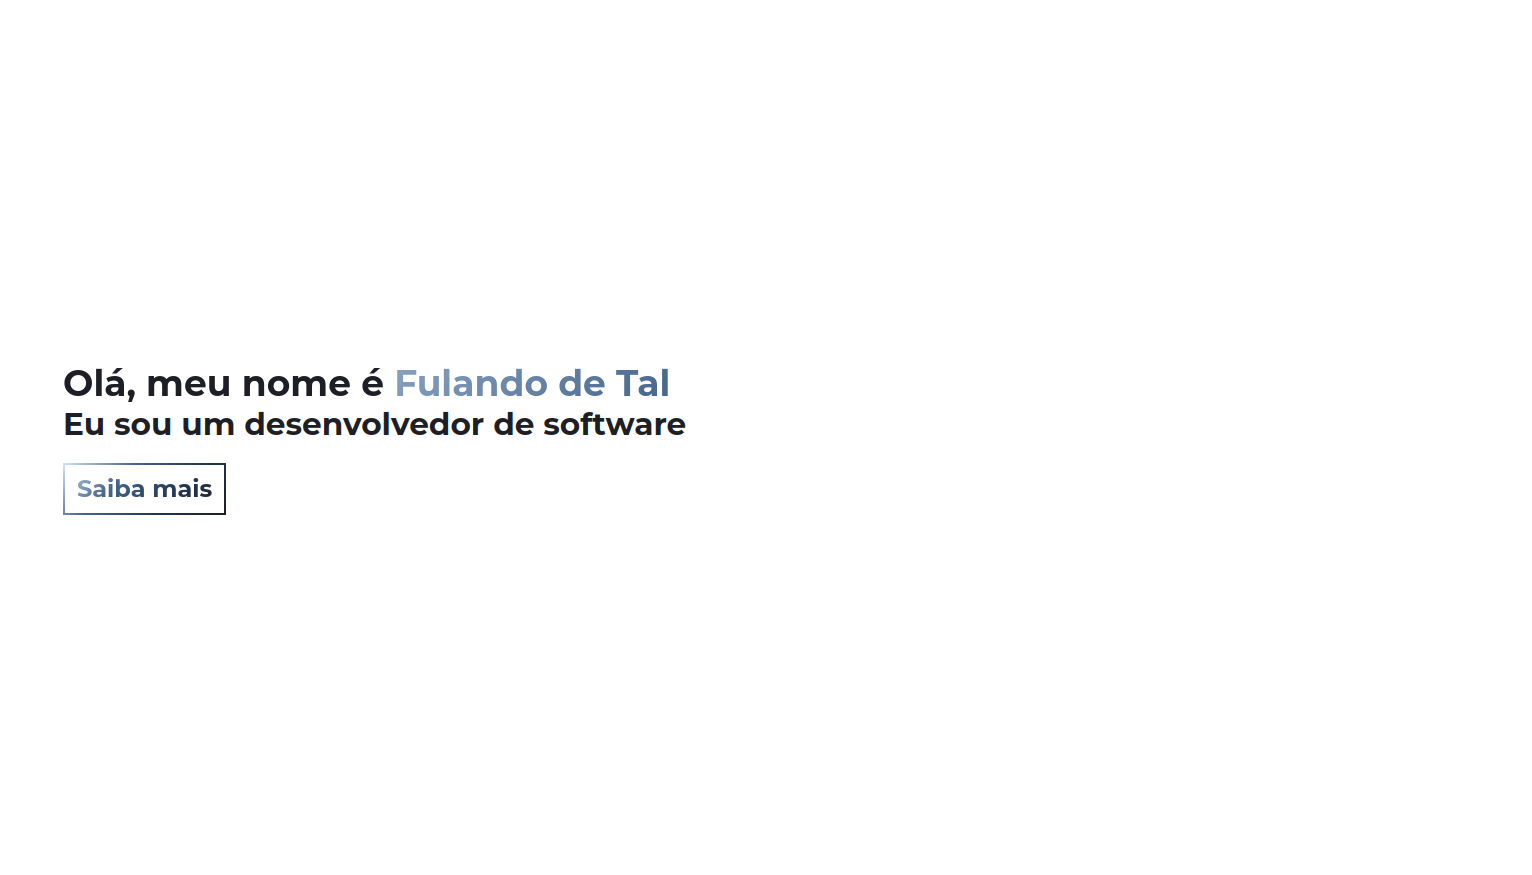
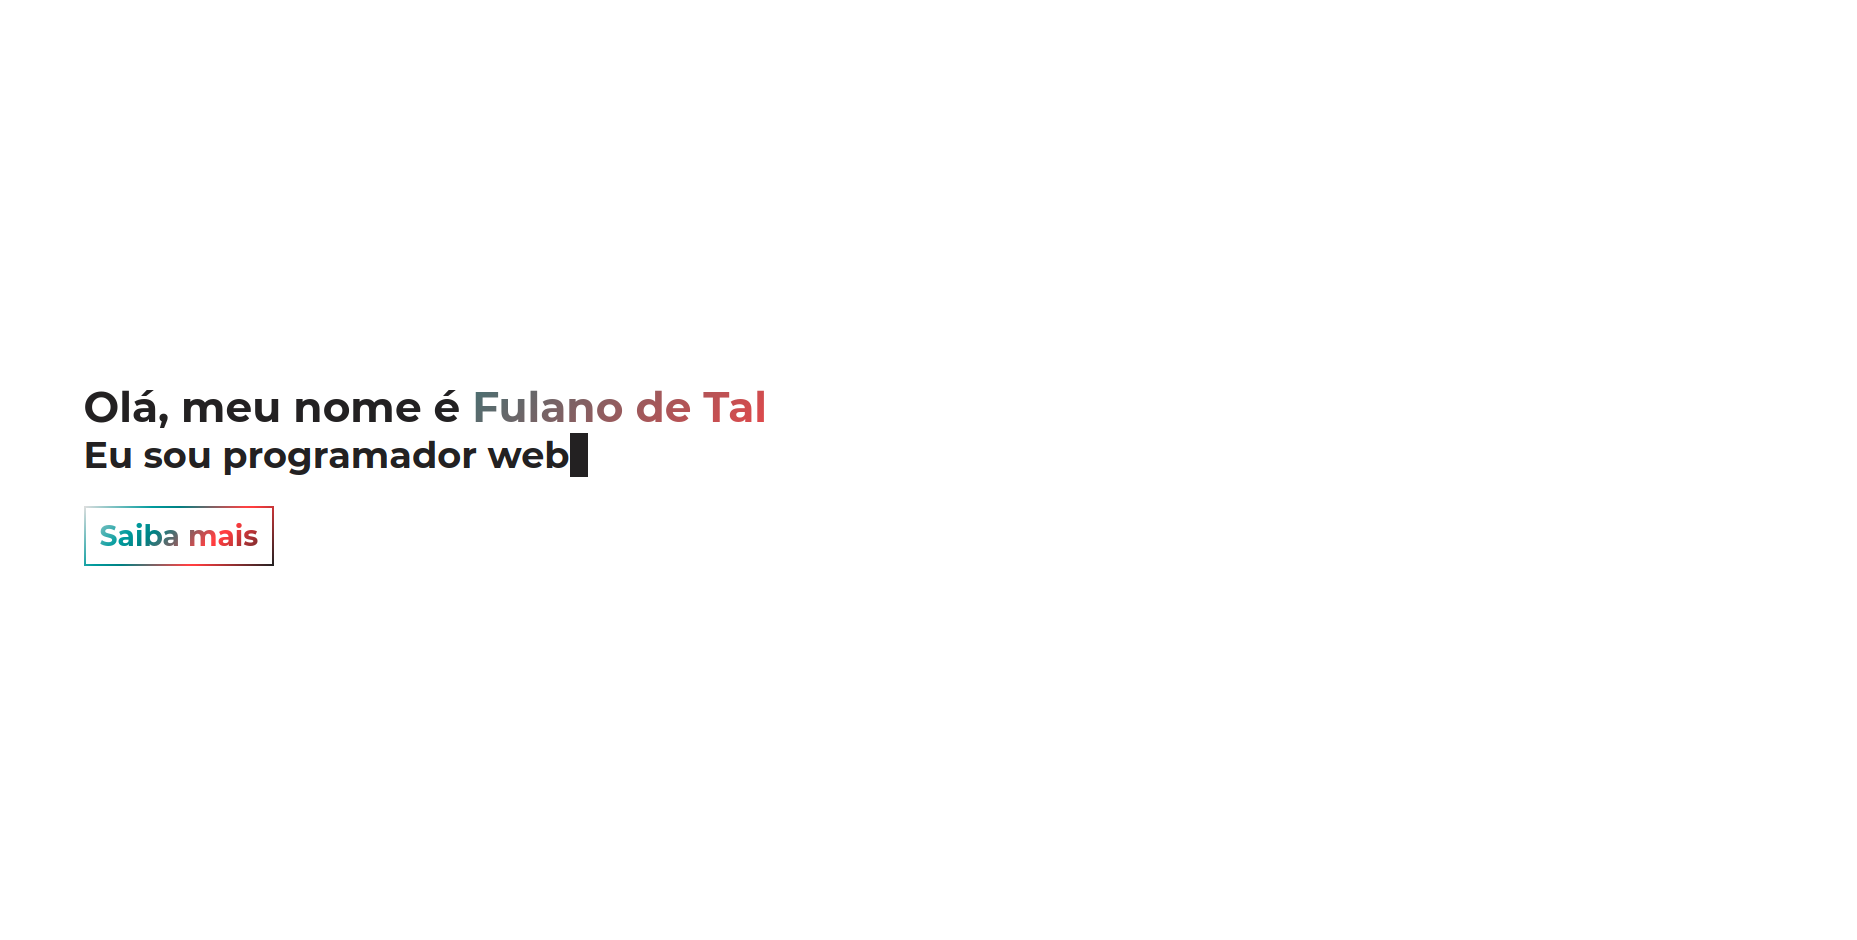
changed default styles

Changed region(s): [[0.0307, 0.4011, 0.4602, 0.6171]]

diff --git a/src/components/Footer/styles.ts b/src/components/Footer/styles.ts
@@ -3,11 +3,11 @@ import { colors } from '../../source/data';
 
 export const Container = styled.footer`
   background: ${colors.first};
-  color: ${colors.second};
+  color: ${colors.third};
   height: 10em;
 
   a {
-    color: ${colors.second};
+    color: ${colors.third};
     transition: 0.5s;
 
     &:hover {
@@ -30,7 +30,7 @@ export const Container = styled.footer`
       margin-top: 1em;
       transition: 0.5s;
       cursor: pointer;
-      color: ${colors.second};
+      color: ${colors.third};
     }
 
     svg:hover {
@@ -39,10 +39,17 @@ export const Container = styled.footer`
   }
 
   hr {
-    border: 0;
     width: 50%;
     margin: auto;
-    border-top: 2px solid ${colors.second};
+    border-top: 0.1px solid transparent;
+    border-image: linear-gradient(
+      -45deg,
+      ${colors.first},
+      ${colors.second},
+      ${colors.third},
+      ${colors.fourth}
+    );
+    border-image-slice: 1;
   }
 
   span {
@@ -50,12 +57,12 @@ export const Container = styled.footer`
     margin-top: 1em;
     font-size: 0.5em;
     text-align: center;
-    color: ${colors.second};
+    color: ${colors.third};
 
     a {
       cursor: pointer;
       transition: 0.5s;
-      color: ${colors.second};
+      color: ${colors.third};
 
       &:hover {
         color: #fff;

diff --git a/src/components/About/styles.ts b/src/components/About/styles.ts
@@ -2,13 +2,7 @@ import styled from 'styled-components';
 import { colors } from '../../source/data';
 
 export const Container = styled.div`
-  background: linear-gradient(
-    -45deg,
-    ${colors.first},
-    ${colors.second},
-    ${colors.third},
-    ${colors.fourth}
-  );
+  background: linear-gradient(-45deg, ${colors.third}, ${colors.fourth});
   color: #fff;
 
   h1 {

diff --git a/src/components/Contact/styles.ts b/src/components/Contact/styles.ts
@@ -2,13 +2,7 @@ import styled from 'styled-components';
 import { colors } from '../../source/data';
 
 export const Container = styled.div`
-  background: linear-gradient(
-    135deg,
-    ${colors.first},
-    ${colors.second},
-    ${colors.third},
-    ${colors.fourth}
-  );
+  background: linear-gradient(135deg, ${colors.first}, ${colors.second});
   color: #fff;
 
   h1 {

diff --git a/src/source/data.ts b/src/source/data.ts
@@ -3,10 +3,10 @@ import project2 from '../assets/project2.png';
 import project3 from '../assets/project3.png';
 
 export const colors = {
-  first: '#1e1f26',
-  second: '#283655',
-  third: '#4d648d',
-  fourth: '#d0e1f9',
+  first: '#232122',
+  second: '#fd3c3c',
+  third: '#138d90',
+  fourth: '#dddede',
 };
 
 export const headData = {

diff --git a/src/components/Main/styles.ts b/src/components/Main/styles.ts
@@ -27,7 +27,7 @@ export const Outdoor = styled.section`
       ${colors.fourth}
     );
     background-size: 400% 400%;
-    animation: gradient 2.5s ease infinite;
+    animation: gradient 3.5s ease infinite;
     background-clip: text;
     -webkit-background-clip: text;
     -webkit-text-fill-color: transparent;

diff --git a/src/components/Projects/styles.ts b/src/components/Projects/styles.ts
@@ -41,7 +41,7 @@ export const Container = styled.section`
 
   img {
     margin-left: 3rem !important;
-    max-height: 350px;
+    max-height: 30vw;
     border: none;
     box-shadow: 0 3px 6px rgba(0, 0, 0, 0.16), 0 3px 6px rgba(0, 0, 0, 0.23);
   }
